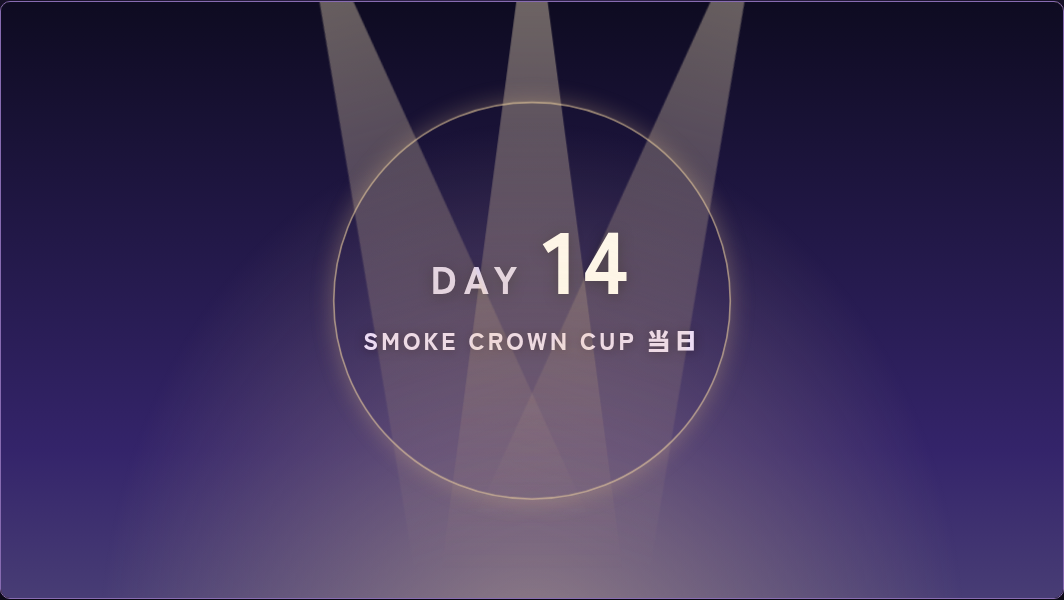
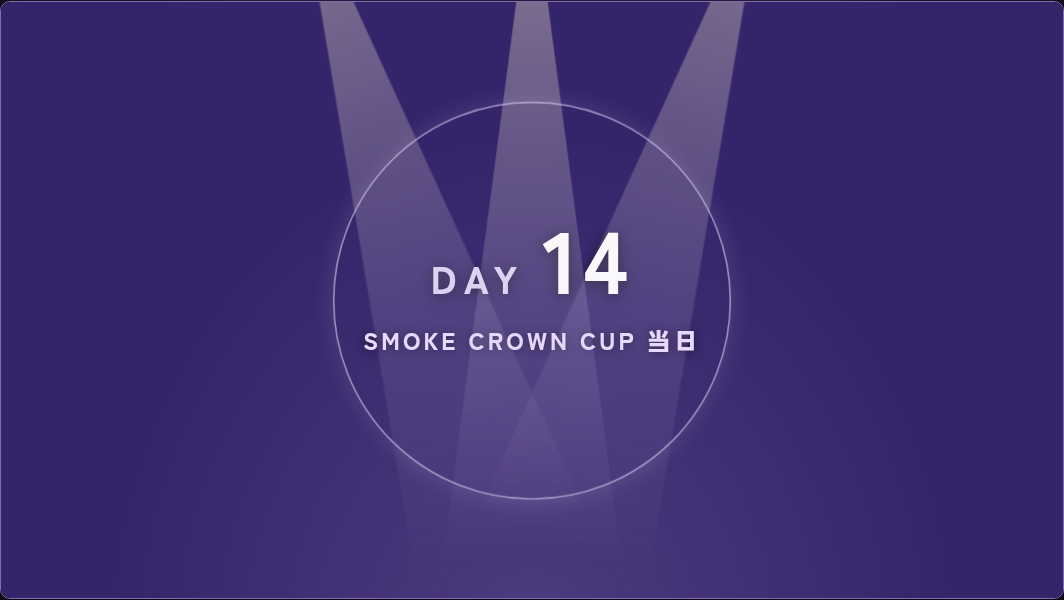
Unify tournament spotlight palette with daily transitions

diff --git a/remake/tournament-day-transition-preview.html b/remake/tournament-day-transition-preview.html
@@ -29,7 +29,7 @@ button:disabled { opacity:.6; cursor:wait; }
 #fx { position:absolute; inset:0; overflow:hidden; }
 .motion { position:absolute; inset:0; overflow:hidden; background:#34246a; color:white; }
 .motion.smoke { background:radial-gradient(circle at 50% 45%,#584584,#24183f 72%); }
-.motion.spot { background:linear-gradient(#0e0b21,#34246a 75%,#483d75); }
+.motion.spot { background:#34246a; }
 .motion .title { position:absolute; top:255px; left:0; right:0; text-align:center; font-size:104px; line-height:1; font-weight:900; letter-spacing:.07em; text-shadow:0 2px 16px #110c27; }
 .motion .title small { margin-right:20px; color:#dcd1f4; font-size:46px; letter-spacing:.22em; }
 .motion .subtitle { position:absolute; top:385px; left:0; right:0; text-align:center; color:#eadbff; font-size:29px; font-weight:800; letter-spacing:.13em; text-shadow:0 2px 12px #160a2c; }
@@ -39,10 +39,10 @@ button:disabled { opacity:.6; cursor:wait; }
 .motion .cross.one { transform:rotate(10deg); }.motion .cross.two { transform:rotate(-10deg); }
 .motion .haze { position:absolute; width:1000px; height:610px; border-radius:50%; filter:blur(48px); background:radial-gradient(ellipse,#b6a1deaa 0,#7b64af77 45%,transparent 72%); }
 .motion .haze.one { left:-320px; top:50px; }.motion .haze.two { right:-320px; top:25px; }
-.motion .beam { position:absolute; top:-110px; width:220px; height:800px; transform-origin:50% 0; clip-path:polygon(48% 0,52% 0,100% 100%,0 100%); background:linear-gradient(#ffedceaa,#fbd89538 65%,transparent); }
+.motion .beam { position:absolute; top:-110px; width:220px; height:800px; transform-origin:50% 0; clip-path:polygon(48% 0,52% 0,100% 100%,0 100%); background:linear-gradient(#fff1d299,#dcd1f430 65%,transparent); }
 .motion .beam.center { left:530px; }.motion .beam.left { left:260px; transform:rotate(-17deg); }.motion .beam.right { right:260px; transform:rotate(17deg); }
-.motion .ring { position:absolute; left:50%; top:50%; width:480px; height:480px; margin:-240px; border:2px solid #f5d7a3; border-radius:50%; box-shadow:0 0 28px #e9c58d88; }
-.motion .ambient { position:absolute; inset:0; background:radial-gradient(ellipse at 50% 110%,#f9dca266,transparent 58%); }
+.motion .ring { position:absolute; left:50%; top:50%; width:480px; height:480px; margin:-240px; border:2px solid #dcd1f4; border-radius:50%; box-shadow:0 0 28px #dcd1f444; }
+.motion .ambient { position:absolute; inset:0; background:radial-gradient(ellipse at 50% 110%,#dcd1f426,transparent 58%); }
 .details { display:flex; flex-wrap:wrap; align-items:baseline; gap:12px; margin-top:14px; }
 .details h2 { margin:0; font-size:22px; }.details span { color:#f1cf95; font-size:13px; font-weight:700; }
 #description { margin:6px 0 0; color:#d2c3e3; font-size:14px; }
